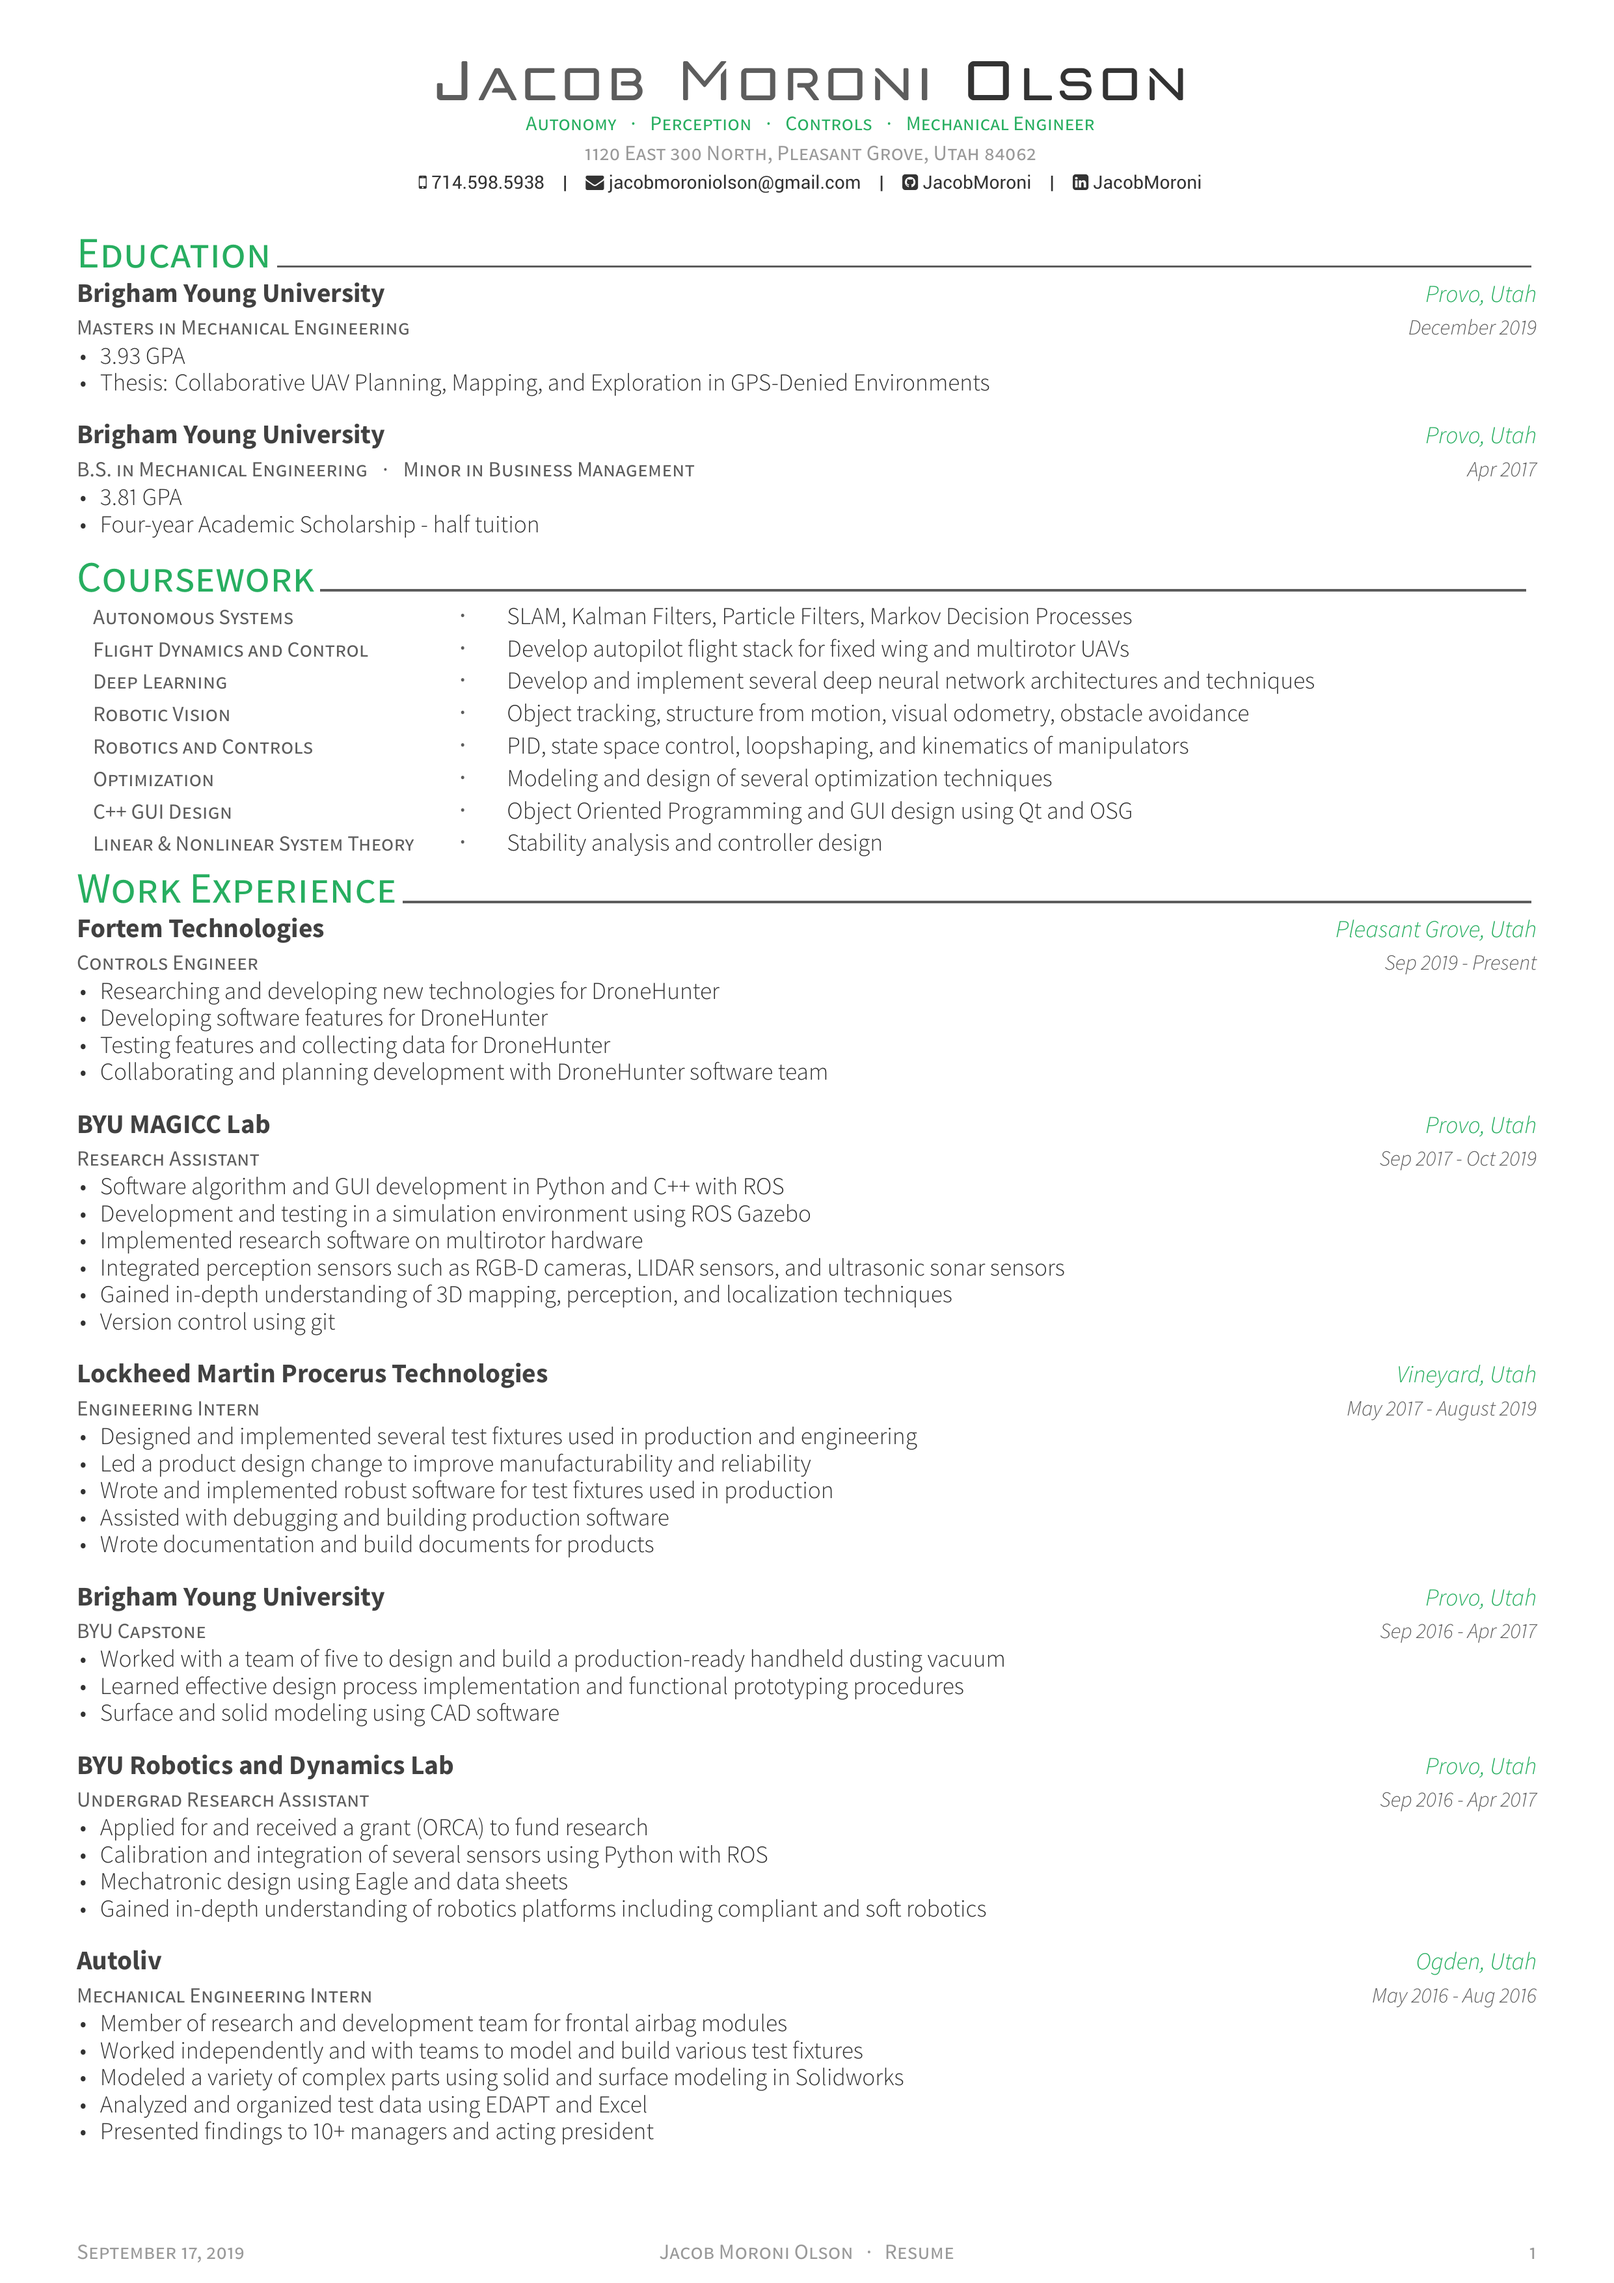
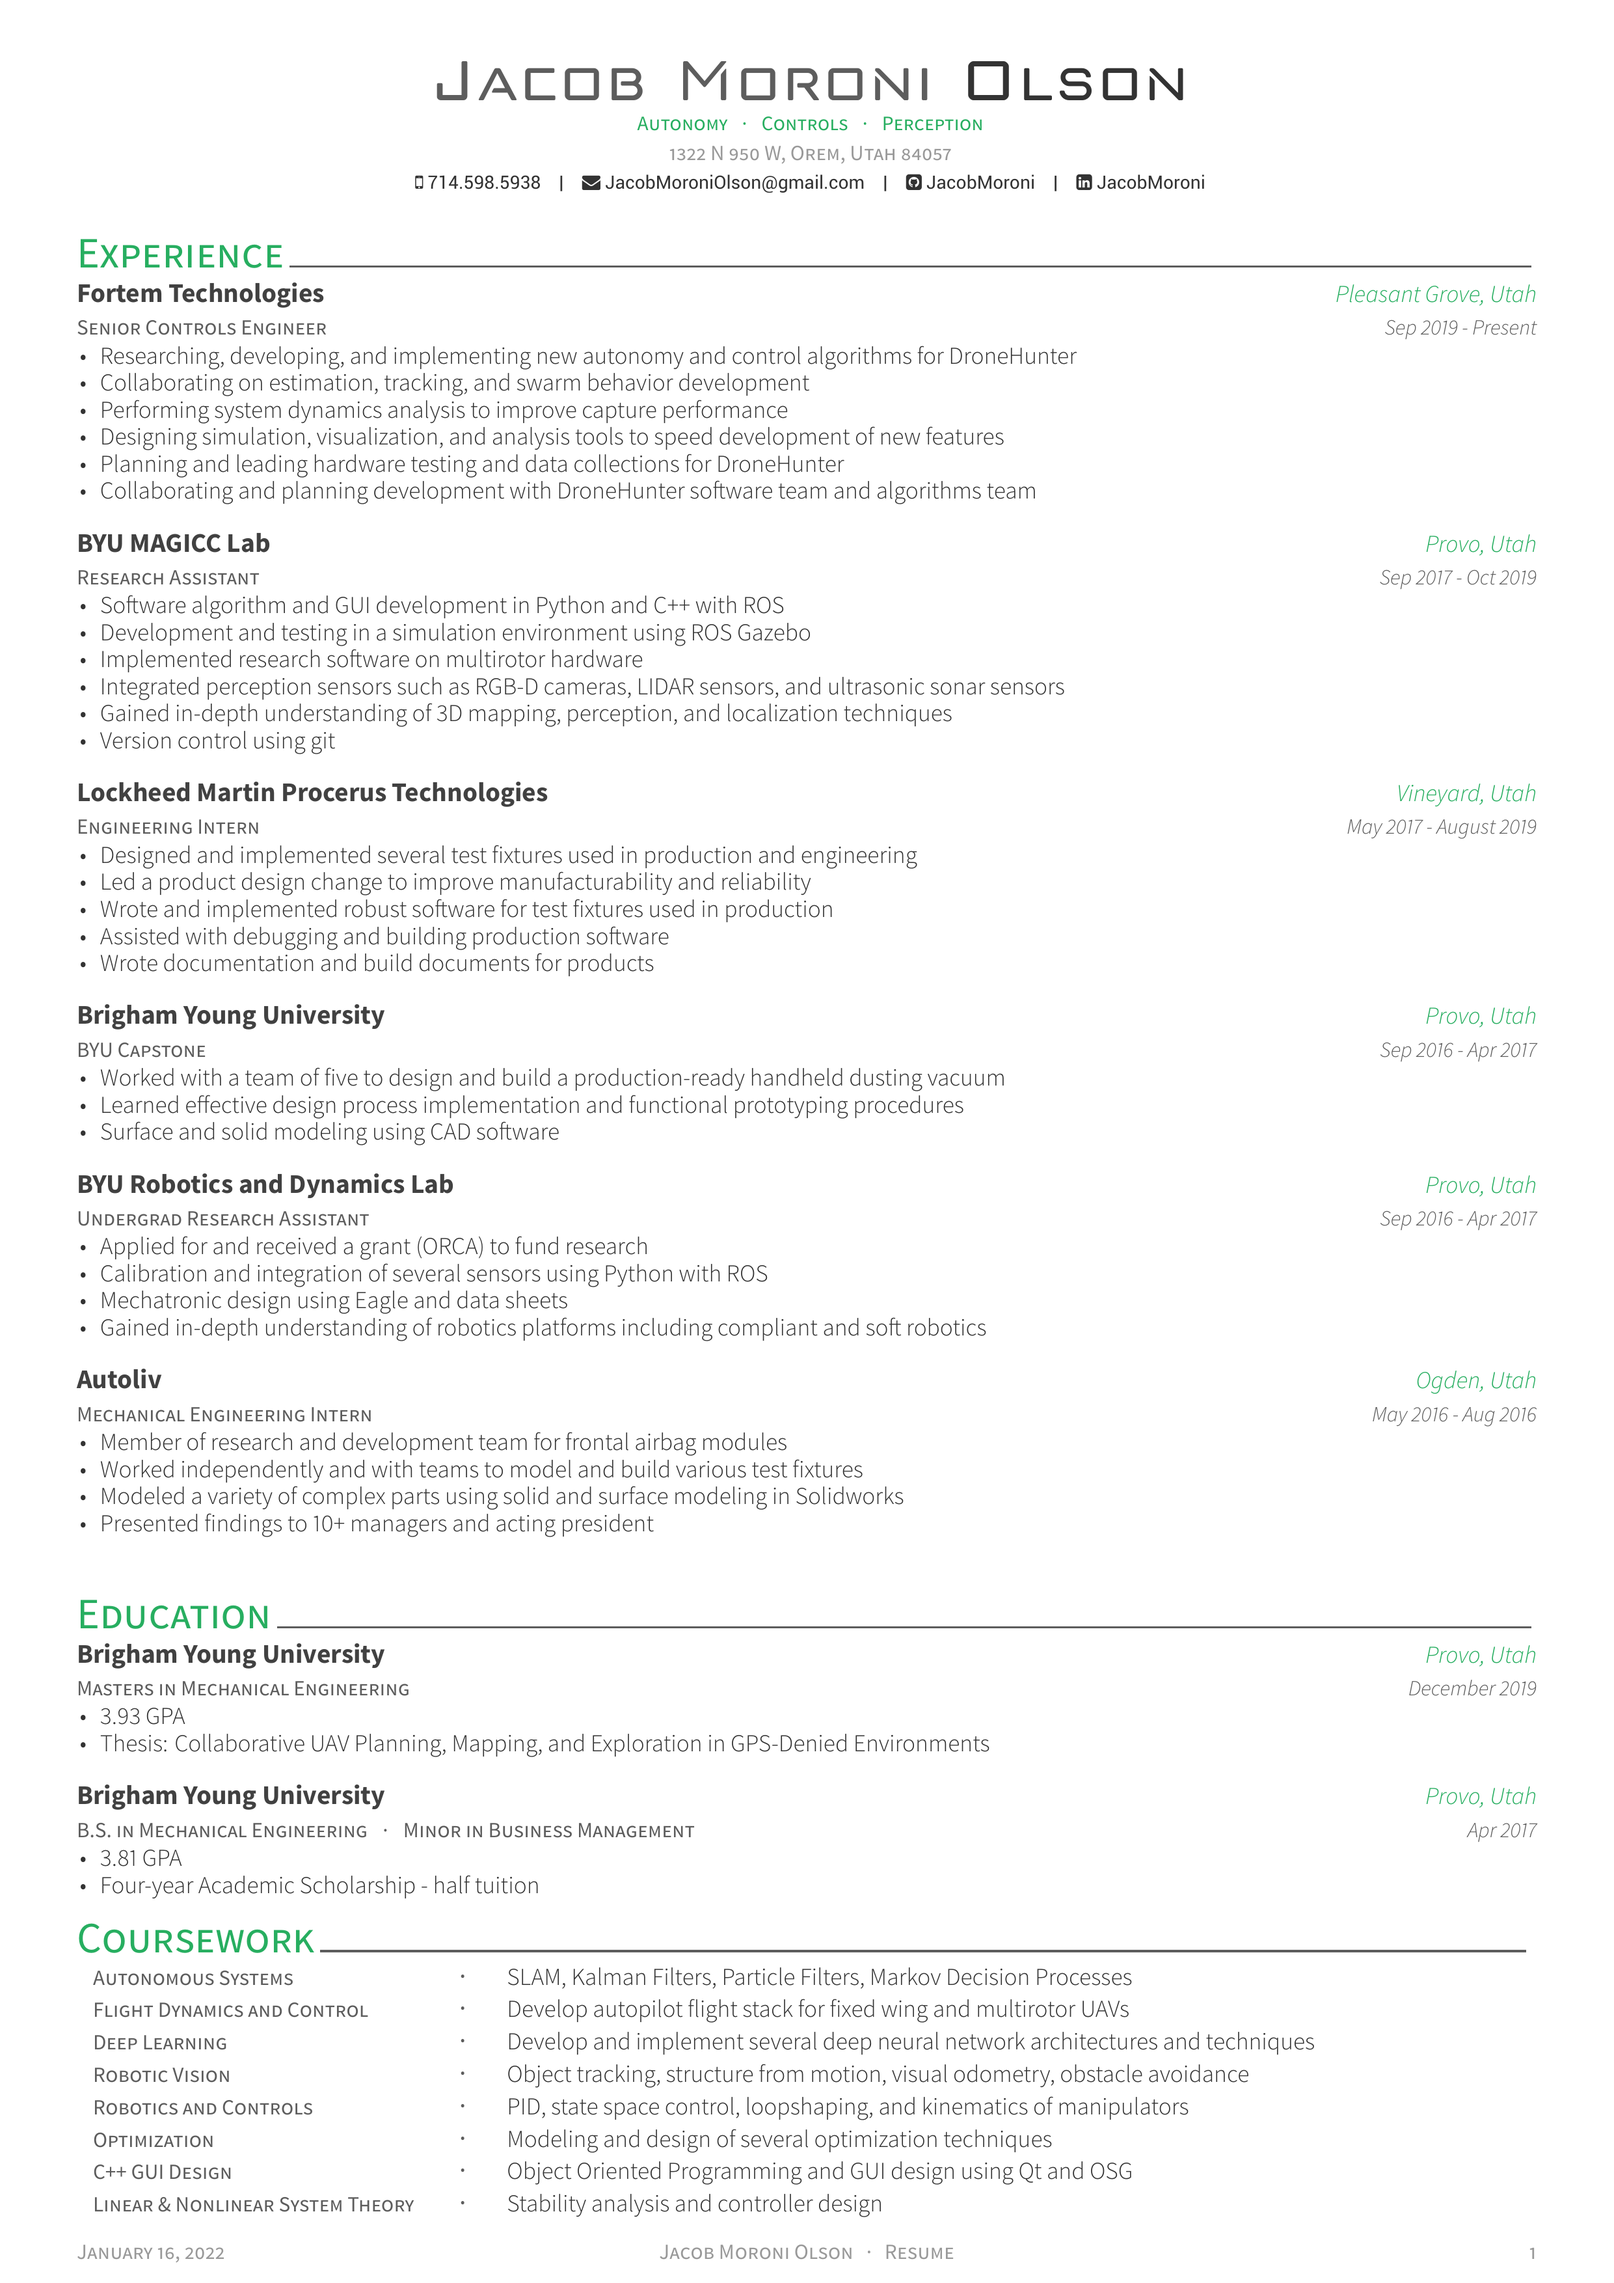
updated resume

diff --git a/documents/resume/experience.tex b/documents/resume/experience.tex
@@ -1,7 +1,7 @@
 %-------------------------------------------------------------------------------
 %	SECTION TITLE
 %-------------------------------------------------------------------------------
-\cvsection{Work Experience}
+\cvsection{Experience}
 
 %-------------------------------------------------------------------------------
 %	CONTENT
@@ -10,16 +10,18 @@
 
 %-------------------------------------------------------------------------------
 \cventry
-  {Controls Engineer}
+  {Senior Controls Engineer}
   {Fortem Technologies}
   {Pleasant Grove, Utah}
   {Sep 2019 - Present}
   {
     \begin{cvitems}
-      \item{Researching and developing new technologies for DroneHunter}
-      \item{Developing software features for DroneHunter}
-      \item{Testing features and collecting data for DroneHunter}
-      \item{Collaborating and planning development with DroneHunter software team}
+      \item{Researching, developing, and implementing new autonomy and control algorithms for DroneHunter}
+      \item{Collaborating on estimation, tracking, and swarm behavior development}
+      \item{Performing system dynamics analysis to improve capture performance}
+      \item{Designing simulation, visualization, and analysis tools to speed development of new features}
+      \item{Planning and leading hardware testing and data collections for DroneHunter}
+      \item{Collaborating and planning development with DroneHunter software team and algorithms team}
     \end{cvitems}
   }
 
@@ -111,7 +113,6 @@
         \item {Member of research and development team for frontal airbag modules}
         \item {Worked independently and with teams to model and build various test fixtures}
         \item {Modeled a variety of complex parts using solid and surface modeling in Solidworks}
-        \item {Analyzed and organized test data using EDAPT and Excel}
         \item {Presented findings to 10+ managers and acting president}
       \end{cvitems}
     }

diff --git a/documents/resume.tex b/documents/resume.tex
@@ -59,11 +59,11 @@
 % Available options: circle|rectangle,edge/noedge,left/right
 % \photo[rectangle,noedge,right]{./githubqrcode.png}
 \name{Jacob Moroni}{Olson}
-\position{Autonomy {\enskip\cdotp\enskip} Perception {\enskip\cdotp\enskip} Controls {\enskip\cdotp\enskip} Mechanical Engineer}
-\address{1120 East 300 North, Pleasant Grove, Utah 84062}
+\position{Autonomy {\enskip\cdotp\enskip} Controls {\enskip\cdotp\enskip} Perception}
+\address{1322 N 950 W, Orem, Utah 84057}
 
 \mobile{714.598.5938}
-\email{jacobmoroniolson@gmail.com}
+\email{JacobMoroniOlson@gmail.com}
 \github{JacobMoroni}
 \linkedin{JacobMoroni}
 % \gitlab{gitlab-id}
@@ -95,10 +95,10 @@
 %	Each section is imported separately, open each file in turn to modify content
 %-------------------------------------------------------------------------------
 % \input{resume/summary.tex}
+\input{resume/experience.tex}
 \input{resume/education.tex}
 % \input{resume/skills.tex}
 \input{resume/coursework.tex}
-\input{resume/experience.tex}
 %\input{resume/honors.tex}
 %\input{resume/presentation.tex}
 %\input{resume/writing.tex}
